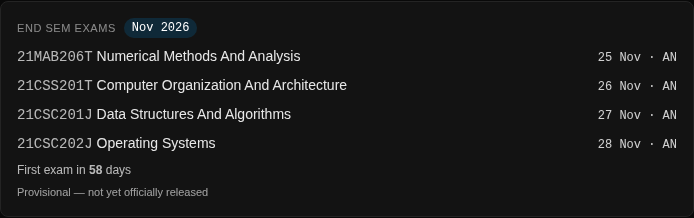
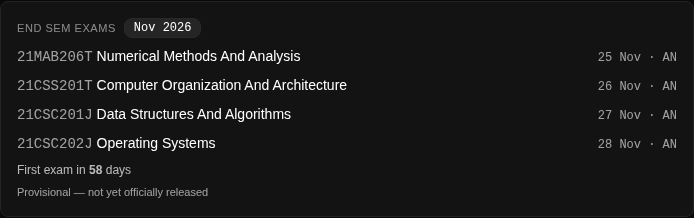
fix(web): align the exam card with DESIGN.md — house rules win
Read the repo's own 587-line design system and corrected three drifts my
redesign had introduced:

- chip: info-blue was a decorative hue (§2.7: info is NOT an accent) and
  badge-info text measured 4.07:1 on this surface (fails AA) — now the
  default badge-soft, identical to the internal-marks pills, 15.33:1
- text opacity: back to the §2.5 ladder (100 / 60) instead of my
  invented /90 /70 /80 steps
- DESIGN.md: new §4.12 documents the card (stamp row anatomy, ladder,
  title-casing, hide-when-empty contract, verify workflow); §10 grows
  two measured silent-failures — daisyUI badge color beats utilities
  incl. !important on the CDN build, and /55 never rendered while /50
  and /60 did

Re-verified on the final markup: contrast probe 0 fails (chip 15.33,
day 18.52, dow/meta 7.15, names 18.52), geometry probe 0 fails at
393x851 + 1280x900, test_exams 24/24, test_exams_view ok, verify76
71/71, ruff app/ clean.

diff --git a/app/templates/dashboard.html b/app/templates/dashboard.html
@@ -201,9 +201,7 @@
           <div class="bg-base-300/40 border border-base-300 rounded-box p-4 sm:col-span-2">
             <div class="flex items-center gap-2 mb-2">
               <div class="text-[11px] uppercase tracking-wider text-base-content/50">End sem exams</div>
-              <!-- info-tinted chip; hand-rolled because daisyUI badge-info's color wins the
-               cascade over every utility (even !important) on the CDN build -->
-              <span class="inline-flex items-center rounded-full bg-info/20 px-2 font-mono text-xs leading-5 text-base-content">{{ exams.label }}</span>
+              <span class="badge badge-soft badge-sm font-mono">{{ exams.label }}</span>
             </div>
             <ul class="space-y-3 sm:space-y-2">
               {% for e in exams.rows %}
@@ -214,16 +212,16 @@
                   <span class="block mt-1 text-[11px] uppercase tracking-wider text-base-content/60">{{ e.dow }}</span>
                 </span>
                 <span class="min-w-0 flex-1 sm:hidden">
-                  <span class="block text-sm leading-snug text-base-content/90">{{ e.name_disp }}</span>
+                  <span class="block text-sm leading-snug text-base-content">{{ e.name_disp }}</span>
                   <span class="block mt-0.5 font-mono text-xs text-base-content/60">{{ e.code }} · {{ e.session }}</span>
                 </span>
                 <!-- desktop: one dense line, date right -->
                 <span class="hidden sm:flex sm:w-full sm:items-baseline sm:justify-between sm:gap-4">
                   <span class="min-w-0 truncate text-sm">
-                    <span class="font-mono text-base-content/70">{{ e.code }}</span>
-                    <span class="text-base-content/90">{{ e.name_disp }}</span>
+                    <span class="font-mono text-base-content/60">{{ e.code }}</span>
+                    <span class="text-base-content">{{ e.name_disp }}</span>
                   </span>
-                  <span class="shrink-0 font-mono text-xs text-base-content/80">{{ e.short }} · {{ e.session }}</span>
+                  <span class="shrink-0 font-mono text-xs text-base-content/60">{{ e.short }} · {{ e.session }}</span>
                 </span>
               </li>
               {% endfor %}

diff --git a/DESIGN.md b/DESIGN.md
@@ -364,6 +364,34 @@ The grid that holds them: `grid grid-cols-1 sm:grid-cols-2 lg:grid-cols-3 gap-3`
 
 Meaning map: current class = `success` border + 8% tint + "Now" badge · next/soon = white (`accent`) · selected day pill = `accent` fill with `accent-content` text · break = `warning` · drop target hover = `base-content` border · filled cell = `success` border.
 
+### 4.12 End-sem schedule card (dashboard)
+
+`_exams_view()` builds the view model (`day`, `dow`, `short`, `name_disp`, month-range `label`); the card renders only when exams exist — **empty = hidden, by design** (no empty-state text, unlike sibling cards).
+
+```jinja
+<!-- mobile: one landmark (day stamp) + one bright line (name) per row -->
+<li class="flex items-start gap-3">
+  <span class="w-9 shrink-0 text-center sm:hidden">
+    <span class="block font-mono text-[17px] font-semibold leading-none tabular-nums text-base-content">{{ e.day }}</span>
+    <span class="block mt-1 text-[11px] uppercase tracking-wider text-base-content/60">{{ e.dow }}</span>
+  </span>
+  <span class="min-w-0 flex-1 sm:hidden">
+    <span class="block text-sm leading-snug text-base-content">{{ e.name_disp }}</span>
+    <span class="block mt-0.5 font-mono text-xs text-base-content/60">{{ e.code }} · {{ e.session }}</span>
+  </span>
+  <!-- desktop: one dense line via sm: switches, zero JS -->
+  <span class="hidden sm:flex sm:w-full sm:items-baseline sm:justify-between sm:gap-4">
+    <span class="min-w-0 truncate text-sm"><span class="font-mono text-base-content/60">{{ e.code }}</span> <span class="text-base-content">{{ e.name_disp }}</span></span>
+    <span class="shrink-0 font-mono text-xs text-base-content/60">{{ e.short }} · {{ e.session }}</span>
+  </span>
+</li>
+```
+
+- **Rows:** `space-y-3 sm:space-y-2`, no dividers — density comes from grouping, not rules (§ B2 / §6). The day stamp is the only 17px/600 element; name is the only `text-base-content` line; everything else `/60` (§2.5 ladder).
+- **Names** are title-cased in `_exams_view()` (`name_disp`); storage keeps the portal's ALL-CAPS `name`.
+- **Chip** is the default `badge-soft` — same as the marks pills (§2.7: no decorative hue). Measured soft ≈14:1 here; `badge-info` soft measured **4.07:1 on this surface (fails)** — see §10 for the override trap.
+- **Verify after any row change:** a contrast probe on the rendered page (canvas-normalized colors composited over the real card bg) and geometry assertions at 393×851 + 1280×900 (one stamp x, one name x, no overlap, no h-overflow, footnote above the fixed dock).
+
 ---
 
 ## 5. Layout and responsive
@@ -454,6 +482,8 @@ Meaning map: current class = `success` border + 8% tint + "Now" badge · next/so
 6. **PWA chrome** (`<meta name="theme-color">`, `manifest.json` `background_color` / `theme_color`, the service worker's offline page) uses `#111111` from the logo. Leave it unless asked. These are the only places hex is acceptable; take values from §2.2.
 7. **HTML built in Python or JS** (`timetable_html()`, `timetable.js`) uses the same tokens and classes as the templates, and must escape any interpolated data.
 8. Python changes must pass `ruff` (CI lint).
+9. **daisyUI wins inside its own components.** Measured on the CDN build: `text-base-content` — even with `!important` — does **not** override `.badge-info`'s color (cross-origin stylesheets also hide the rules from `cssRules`). To restyle badge text, use another badge variant or hand-rolled span; never rely on a utility override.
+10. **Only the documented opacity steps render** (§2.5: `/40 /50 /60 /70 /90`). Measured: `text-base-content/55` silently rendered at full opacity while `/50` and `/60` applied. Stick to the ladder — arbitrary steps may not ship.
 
 ---
 
